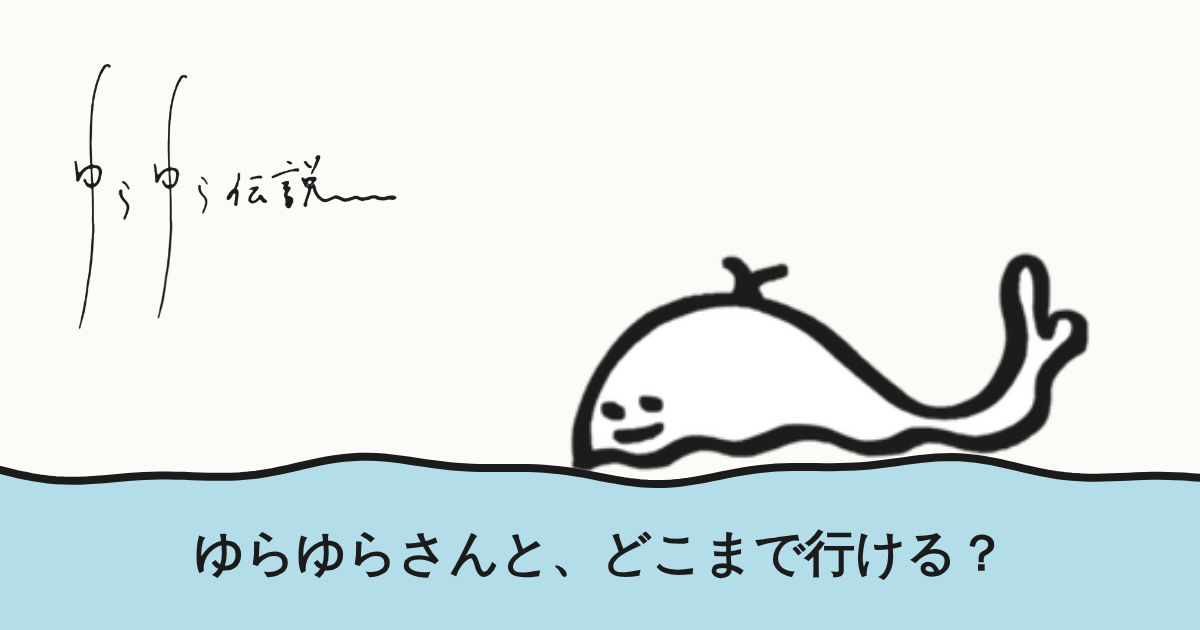
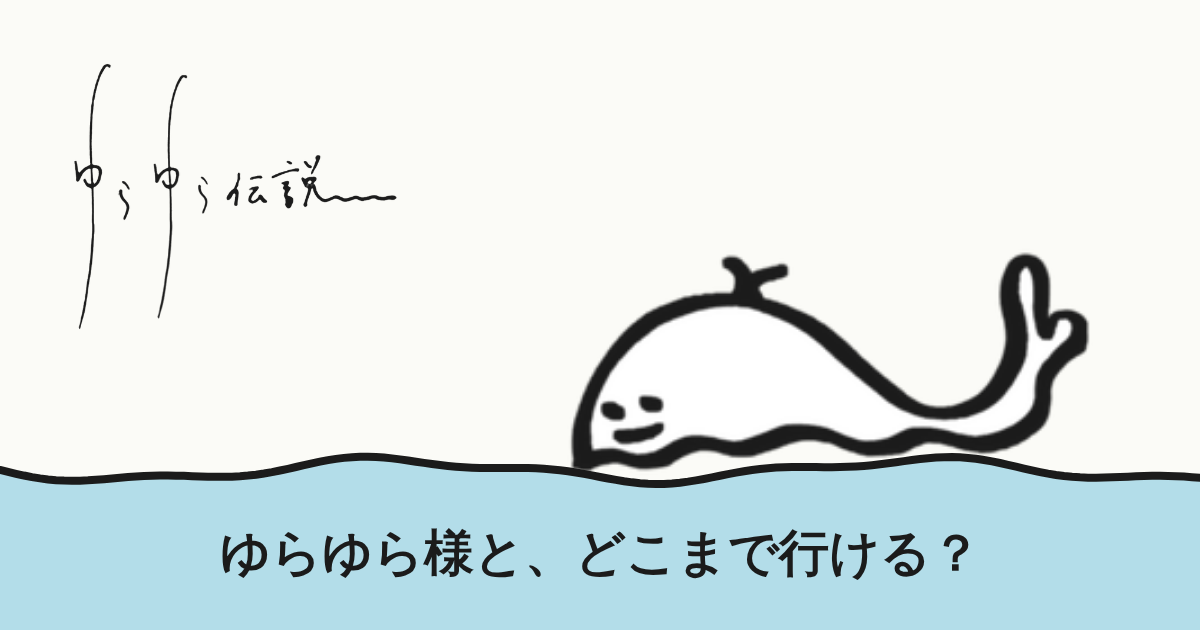
Add files via upload

Changed region(s): [[0.1542, 0.8444, 0.8325, 0.9349]]

diff --git a/index.html b/index.html
@@ -4,10 +4,10 @@
 <meta charset="utf-8">
 <meta name="viewport" content="width=device-width, initial-scale=1, viewport-fit=cover">
 <title>ゆらゆら伝説</title>
-<meta name="description" content="長押しで潜って、障害物をよけながらどこまで行けるか。ゆらゆらさんの波乗りゲーム。">
+<meta name="description" content="長押しで潜って、障害物をよけながらどこまで行けるか。ゆらゆら様の波乗りゲーム。">
 <meta property="og:type" content="website">
 <meta property="og:title" content="ゆらゆら伝説">
-<meta property="og:description" content="ゆらゆらさんと、どこまで行ける？">
+<meta property="og:description" content="ゆらゆら様と、どこまで行ける？">
 <meta property="og:url" content="https://nemuku-naiyo.github.io/yurayura/">
 <meta property="og:image" content="https://nemuku-naiyo.github.io/yurayura/ogp.png">
 <meta name="twitter:card" content="summary_large_image">
@@ -172,7 +172,7 @@ class Sk {
 function line(w){ ctx.lineWidth = w || 3; ctx.strokeStyle = INK; ctx.lineJoin = 'round'; ctx.lineCap = 'round'; }
 function dot(x, y, r){ ctx.fillStyle = INK; ctx.beginPath(); ctx.arc(x, y, r, 0, 7); ctx.fill(); }
 
-// ===== ゆらゆらさんの絵 =====
+// ===== ゆらゆら様の絵 =====
 const SW = 110, SH = SW * 104 / 240;
 const imgLine = new Image(), imgMask = new Image();
 imgLine.src = IMG_LINE; imgMask.src = IMG_MASK;
@@ -632,7 +632,7 @@ function drawHUD(){
     ctx.globalAlpha = Math.min(1, labelT * 2);
     ctx.textAlign = 'center'; ctx.font = '600 22px "Klee One", sans-serif';
     const isNew = newThisRun.includes(colorIdx);
-    ctx.fillText(COLORS[colorIdx][0] + (isNew ? '　はじめて！' : ''), W / 2, SURF + 190);
+    ctx.fillText(COLORS[colorIdx][0] + 'の姿に' + (isNew ? '　はじめて！' : ''), W / 2, SURF + 190);
     ctx.globalAlpha = 1;
   }
   if (playT < 3 && labelT <= 0){
@@ -706,7 +706,7 @@ function renderCard(d, isBest){
   g.lineWidth = 9; g.strokeStyle = INK; g.lineCap = 'round'; g.stroke();
 
   g.textAlign = 'center'; g.fillStyle = INK; g.font = '600 58px "Klee One", sans-serif';
-  g.fillText('「' + COLORS[colorIdx][0] + '」まで とどいた', CW / 2, 920);
+  g.fillText('「' + COLORS[colorIdx][0] + '」の姿に なられた', CW / 2, 920);
   const n = COLORS.length, gap = 58, x0 = CW / 2 - gap * (n - 1) / 2;
   COLORS.forEach((cl, i) => {
     g.beginPath(); g.arc(x0 + i * gap, 1030, 19, 0, 7);
@@ -718,7 +718,7 @@ function renderCard(d, isBest){
   // 知らない人向けの帯：どこで遊べるか
   g.fillStyle = INK; g.fillRect(0, bandY, CW, CH - bandY);
   g.fillStyle = '#fff'; g.font = '600 54px "Klee One", sans-serif';
-  g.fillText('ゆらゆらさんと、どこまで行ける？', CW / 2, bandY + 92);
+  g.fillText('ゆらゆら様と、どこまで行ける？', CW / 2, bandY + 92);
   g.font = '40px "Klee One", sans-serif';
   g.fillText('遊ぶには ' + SHOP_IG + ' のプロフィールから', CW / 2, bandY + 164);
 
@@ -727,7 +727,7 @@ function renderCard(d, isBest){
   return c.toDataURL('image/png');
 }
 function caption(){
-  return 'ゆらゆらさんは ' + Math.floor(dist) + 'm 進んで「' + COLORS[colorIdx][0] + '」になった🐋\n遊ぶには ' + SHOP_IG + ' のプロフィールから\n#ゆらゆら伝説';
+  return 'ゆらゆら様は ' + Math.floor(dist) + 'm 進まれ、「' + COLORS[colorIdx][0] + '」の姿になられた🐋\n遊ぶには ' + SHOP_IG + ' のプロフィールから\n#ゆらゆら伝説';
 }
 async function shareCard(){
   if (cardBlob && navigator.canShare){
